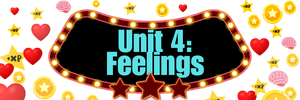
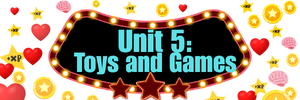
test

Changed region(s): [[0.24, 0.27, 0.81, 0.78]]

diff --git a/server/routes.ts b/server/routes.ts
@@ -78,7 +78,28 @@ export async function registerRoutes(
     }
   });
 
-  // Student routes
+  app.delete("/api/classroom/classes", async (req, res) => {
+    try {
+      const id = req.query.id as string;
+      if (!id) return res.status(400).json({ message: "id required" });
+      await storage.deleteClass(id);
+      res.json({ success: true });
+    } catch (error: any) {
+      res.status(500).json({ message: error.message });
+    }
+  });
+
+  // Student routes (support both /students?classId=xxx and /students/:classId)
+  app.get("/api/classroom/students", async (req, res) => {
+    try {
+      const classId = req.query.classId as string;
+      if (!classId) return res.status(400).json({ message: "classId required" });
+      const students = await storage.getStudentsByClass(classId);
+      res.json({ students });
+    } catch (error: any) {
+      res.status(500).json({ message: error.message });
+    }
+  });
   app.get("/api/classroom/students/:classId", async (req, res) => {
     try {
       const { classId } = req.params;
@@ -98,6 +119,17 @@ export async function registerRoutes(
       if (error instanceof z.ZodError) {
         return res.status(400).json({ message: error.errors[0].message });
       }
+      res.status(500).json({ message: error.message });
+    }
+  });
+
+  app.delete("/api/classroom/students", async (req, res) => {
+    try {
+      const id = req.query.id as string;
+      if (!id) return res.status(400).json({ message: "id required" });
+      await storage.deleteStudent(id);
+      res.json({ success: true });
+    } catch (error: any) {
       res.status(500).json({ message: error.message });
     }
   });
@@ -139,11 +171,58 @@ export async function registerRoutes(
     }
   });
 
-  // Initialize permanent classes route
+  // Initialize permanent classes: edincik2A, edincik3A, edincik4A, edincik4B (each with one "test" student)
+  // Scores routes (GET/POST for inclass category scores)
+  app.get("/api/classroom/scores", async (req, res) => {
+    try {
+      const { default: handler } = await import("../api/classroom/scores");
+      await handler(req, res);
+    } catch (error: any) {
+      res.status(500).json({ message: error.message || "Internal server error" });
+    }
+  });
+  app.post("/api/classroom/scores", async (req, res) => {
+    try {
+      const { default: handler } = await import("../api/classroom/scores");
+      await handler(req, res);
+    } catch (error: any) {
+      res.status(500).json({ message: error.message || "Internal server error" });
+    }
+  });
+
+  // Initialize permanent classes: edincik2A, edincik3A, edincik4A, edincik4B (each with one "test" student)
   app.post("/api/classroom/init-permanent-classes", async (req, res) => {
     try {
-      const { handler } = await import("../api/classroom/init-permanent-classes");
-      await handler(req, res);
+      const permanentClasses = [
+        { name: 'edincik2A', grade: 2, section: 'A' },
+        { name: 'edincik3A', grade: 3, section: 'A' },
+        { name: 'edincik4A', grade: 4, section: 'A' },
+        { name: 'edincik4B', grade: 4, section: 'B' },
+      ];
+      const created: { classes: any[]; students: any[] } = { classes: [], students: [] };
+
+      for (const { name, grade, section } of permanentClasses) {
+        const existing = await storage.getClassByName(name);
+        if (existing) {
+          const students = await storage.getStudentsByClass(existing.id);
+          if (!students.some(s => s.name.toLowerCase() === 'test')) {
+            const student = await storage.createStudent({ classId: existing.id, name: 'test' });
+            created.students.push(student);
+          }
+          continue;
+        }
+        const cls = await storage.createClass({ name, grade, section });
+        created.classes.push(cls);
+        const student = await storage.createStudent({ classId: cls.id, name: 'test' });
+        created.students.push(student);
+      }
+
+      res.json({
+        success: true,
+        message: `Initialized ${created.classes.length} classes and ${created.students.length} students`,
+        classes: created.classes,
+        students: created.students,
+      });
     } catch (error: any) {
       res.status(500).json({ message: error.message || "Internal server error" });
     }

diff --git a/client/src/data/wordMap.ts b/client/src/data/wordMap.ts
@@ -872,7 +872,39 @@ FUNCTIONS:
 FUNCTIONS:
 • Talking about buildings in the city
 • Describing places`,
-            words: [],
+            words: [
+              { word: "building", turkish: "bina" },
+              { word: "place", turkish: "yer" },
+              { word: "school", turkish: "okul" },
+              { word: "library", turkish: "kütüphane" },
+              { word: "shopping centre", turkish: "alışveriş merkezi" },
+              { word: "museum", turkish: "müze" },
+              { word: "zoo", turkish: "hayvanat bahçesi" },
+              { word: "hospital", turkish: "hastane" },
+              { word: "bank", turkish: "banka" },
+              { word: "park", turkish: "park" },
+              { word: "mosque", turkish: "cami" },
+              { word: "café", turkish: "kafe" },
+              { word: "police station", turkish: "polis karakolu" },
+              { word: "bus stop", turkish: "otobüs durağı" },
+              { word: "home", turkish: "ev" },
+              { word: "road", turkish: "yol" },
+              { word: "map", turkish: "harita" },
+              { word: "city", turkish: "şehir" },
+              { word: "town", turkish: "kasaba" },
+              { word: "village", turkish: "köy" },
+              { word: "at", turkish: "-de/-da" },
+              { word: "over there", turkish: "orada" },
+              { word: "here", turkish: "burada" },
+              { word: "know", turkish: "bilmek" },
+              { word: "now", turkish: "şimdi" },
+              { word: "I don't know", turkish: "bilmiyorum" },
+              { word: "sorry", turkish: "özür dilerim" },
+              { word: "excuse me", turkish: "affedersiniz" },
+              { word: "where", turkish: "nerede" },
+              { word: "go", turkish: "gitmek" },
+              { word: "it", turkish: "o" },
+            ],
           },
           {
             id: "3.8",

diff --git a/shared/schema.ts b/shared/schema.ts
@@ -21,8 +21,9 @@ export type User = typeof users.$inferSelect;
 export const classes = pgTable("classes", {
   id: varchar("id").primaryKey().default(sql`gen_random_uuid()`),
   name: text("name").notNull(), // e.g., "2-A", "3-B"
-  grade: integer("grade").notNull(),
-  section: text("section").notNull(), // e.g., "A", "B"
+  grade: integer("grade").default(0).notNull(),
+  section: text("section").default("").notNull(), // e.g., "A", "B"
+  monitorCode: text("monitor_code"),
   createdAt: timestamp("created_at").defaultNow().notNull(),
 });
 
@@ -48,7 +49,8 @@ export const insertClassSchema = createInsertSchema(classes).pick({
   name: true,
   grade: true,
   section: true,
-});
+  monitorCode: true,
+}).partial({ grade: true, section: true, monitorCode: true });
 
 export const insertStudentSchema = createInsertSchema(students).pick({
   classId: true,

diff --git a/server/storage.ts b/server/storage.ts
@@ -76,11 +76,15 @@ export class MemStorage implements IStorage {
 
   async createClass(insertClass: InsertClass): Promise<Class> {
     const id = randomUUID();
+    const monitorCode = (insertClass as any).monitorCode ?? insertClass.name.toLowerCase().replace(/[^a-z0-9]/g, '');
     const cls: Class = {
       ...insertClass,
       id,
+      monitorCode,
+      grade: insertClass.grade ?? 0,
+      section: insertClass.section ?? '',
       createdAt: new Date(),
-    };
+    } as Class;
     this.classes.set(id, cls);
     return cls;
   }

diff --git a/client/src/pages/primary-school-grade3-unit6-games-menu.tsx b/client/src/pages/primary-school-grade3-unit6-games-menu.tsx
@@ -4,7 +4,7 @@ import "../styles/oyunlar.css";
 import "@/styles/3.1.voc.css";
 
 // Import topic button half (300x100px)
-import topic3_6 from "@/assets/3.1game.png"; // Placeholder - replace with 3.6game.png when available
+import topic3_6 from "@/assets/3.6game.png";
 
 // Import game type button halves (300x300px)
 import gameTypeMatchlings from "@/assets/matchlings.png";
